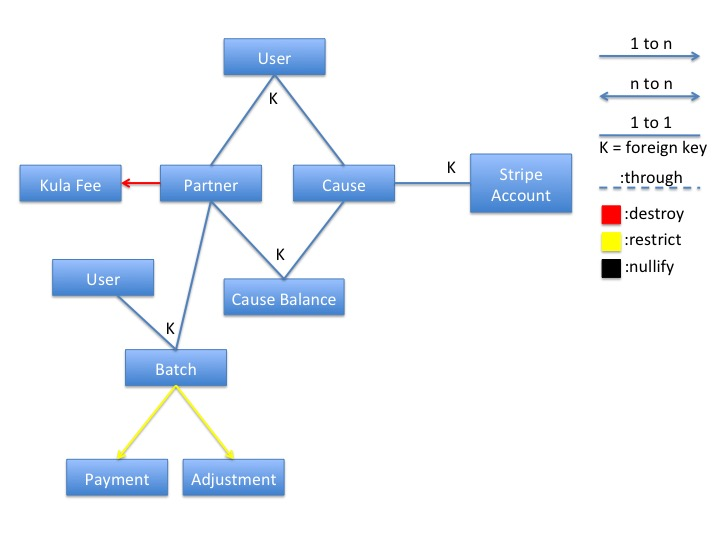
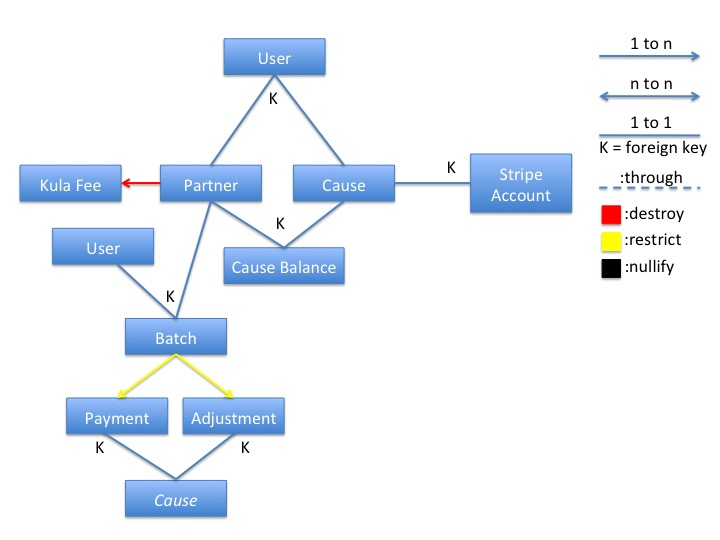
Payments and Partners

Changed region(s): [[0.0611, 0.3556, 0.4889, 0.9778]]

diff --git a/app/assets/javascripts/batch.js b/app/assets/javascripts/batch.js
@@ -1,0 +1,4 @@
+function remove_payment(link) {
+	$(link).prev("input[type=hidden]").val("true");
+	$(link).closest(".payment").hide();
+}

diff --git a/app/controllers/batches_controller.rb b/app/controllers/batches_controller.rb
@@ -1,0 +1,70 @@
+class BatchesController < ApplicationController
+  before_filter :authenticate_user!
+
+  # GET /batches/new
+  def new
+    @partner = Partner.find_by_partner_identifier(params[:partner])
+    @batch = @partner.batches.build(:user => current_user)
+  end
+  
+  # POST /batches
+  def create
+    @batch = Batch.new(batch_params)
+    
+    if @batch.save
+      # Add to CauseBalance
+      ActiveRecord::Base.transaction do
+        begin
+          @batch.payments.each do |payment|
+            balance = CauseBalance.where(:partner_id => @batch.partner, :cause_id => payment.cause, 
+                                         :year => payment.date.year, :balance_type => CauseBalance::PAYMENT).first_or_create  
+            case payment.date.month
+            when 1 
+              balance.update_attribute(:jan, balance.jan + payment.amount)
+            when 2 
+              balance.update_attribute(:feb, balance.feb + payment.amount)
+            when 3 
+              balance.update_attribute(:mar, balance.mar + payment.amount)
+            when 4 
+              balance.update_attribute(:apr, balance.apr + payment.amount)
+            when 5 
+              balance.update_attribute(:may, balance.may + payment.amount)
+            when 6 
+              balance.update_attribute(:jun, balance.jun + payment.amount)
+            when 7 
+              balance.update_attribute(:jul, balance.jul + payment.amount)
+            when 8 
+              balance.update_attribute(:aug, balance.aug + payment.amount)
+            when 9 
+              balance.update_attribute(:sep, balance.sep + payment.amount)
+            when 10 
+              balance.update_attribute(:oct, balance.oct + payment.amount)
+            when 11 
+              balance.update_attribute(:nov, balance.nov + payment.amount)
+            when 12 
+              balance.update_attribute(:dec, balance.dec + payment.amount)
+            end
+            
+            balance.update_attribute(:total, balance.jan + balance.feb + balance.mar + balance.apr + balance.may + balance.jun + 
+                                             balance.jul + balance.aug + balance.sep + balance.oct + balance.nov + balance.dec)          
+          end
+        rescue ActiveRecord::Rollback => ex
+          # All or nothing
+          @batch.destroy  
+        end
+      end
+      
+      redirect_to payments_path(:partner => @batch.partner_id), :notice => 'Batch was successfully created.'
+    else
+      render 'new'
+    end    
+  end
+  
+private
+  def batch_params
+    params.require(:batch).permit(:partner_id, :user_id, :name, :date, :description,
+                                  :payments_attributes => [:id, :status, :amount, :date, :confirmation, 
+                                                           :payment_method, :address, :comment, :cause_id,
+                                                           :_destroy])    
+  end
+end

diff --git a/app/helpers/batches_helper.rb b/app/helpers/batches_helper.rb
@@ -1,0 +1,17 @@
+module BatchesHelper
+  def add_payment(batch, form_builder)
+    # Precompute the html for a new content block by calling render on the same partial used for display
+    # The index is just "NEW_RECORD", since it doesn't exist yet; it will be replaced later
+    # Add a link with the text "Add Payment" and the id "add_payment"
+    # The inline Javascript takes the precomputed html block for a new license, replaces NEW_RECORD with a
+    #  dynamically computed unique key, and inserts it in the DOM right before the link
+    # Use #license elements as the unique key instead of "new Date().getTime()" so that I can predict it with RSpec
+    #  
+    form_builder.fields_for :payments, batch.payments.build, :child_index => 'NEW_RECORD' do |payment_form|
+      html = render(:partial => 'payment', :locals => { :f => payment_form })
+      onclick = "$('#{escape_javascript(html)}'.replace(/NEW_RECORD/g, $('.payment').length)).insertBefore('#add_payment'); return false;"
+      
+      content_tag(:a, 'Add Payment', :href => '#', :onclick => onclick, :id => 'add_payment')
+    end
+  end    
+end

diff --git a/app/models/cause_balance.rb b/app/models/cause_balance.rb
@@ -30,17 +30,19 @@ class CauseBalance < ActiveRecord::Base
   GROSS = 'Gross'
   DISCOUNT = 'Discount'
   NET = 'Net'
-  FEES = 'Fees'
-  ADJUSTMENTS = 'Adjustments'
+  FEE = 'Fee'
+  ADJUSTMENT = 'Adjustment'
   DONEE_AMOUNT = 'Donee Amount'
   
-  BALANCE_TYPES = [PAYABLE, PAYMENT, GROSS, DISCOUNT, NET, FEES, ADJUSTMENTS, DONEE_AMOUNT]
+  BALANCE_TYPES = [PAYABLE, PAYMENT, GROSS, DISCOUNT, NET, FEE, ADJUSTMENT, DONEE_AMOUNT]
   MAX_TYPE_LEN = 16
-  
+    
   belongs_to :partner
   belongs_to :cause
   
   validates :year, :numericality => { :only_integer => true, :greater_than => 2000 }
   validates_inclusion_of :balance_type, :in => BALANCE_TYPES
   validates :jan, :feb, :mar, :apr, :may, :jun, :jul, :aug, :sep, :oct, :nov, :dec, :total, :numericality => { :greater_than_or_equal_to => 0.0 }
+  
+  scope :payments, -> { where("balance_type = ?", PAYMENT).group(:year, :partner_id) }
 end

diff --git a/spec/models/payment_spec.rb b/spec/models/payment_spec.rb
@@ -13,16 +13,19 @@
 #  comment        :text
 #  created_at     :datetime
 #  updated_at     :datetime
+#  cause_id       :integer
 #
 
 describe Payment do
   let(:batch) { FactoryGirl.create(:batch) }
-  let(:payment) { FactoryGirl.create(:payment, :batch => batch) }
+  let(:cause) { FactoryGirl.create(:cause) }
+  let(:payment) { FactoryGirl.create(:payment, :batch => batch, :cause => cause) }
   
   subject { payment }
   
   it "should respond to everything" do
     expect(payment).to respond_to(:batch_id)
+    expect(payment).to respond_to(:cause_id)
     expect(payment).to respond_to(:status)
     expect(payment).to respond_to(:amount)
     expect(payment).to respond_to(:date)
@@ -33,6 +36,7 @@ describe Payment do
   end
   
   its(:batch) { should be == batch }
+  its(:cause) { should be == cause }
   
   it { should be_valid }
   

diff --git a/spec/models/adjustment_spec.rb b/spec/models/adjustment_spec.rb
@@ -9,22 +9,26 @@
 #  comment    :text
 #  created_at :datetime
 #  updated_at :datetime
+#  cause_id   :integer
 #
 
 describe Adjustment do
   let(:batch) { FactoryGirl.create(:batch) }
-  let(:adjustment) { FactoryGirl.create(:adjustment, :batch => batch) }
+  let(:cause) { FactoryGirl.create(:cause) }
+  let(:adjustment) { FactoryGirl.create(:adjustment, :batch => batch, :cause => cause) }
   
   subject { adjustment }
   
   it "should respond to everything" do
     expect(adjustment).to respond_to(:batch_id)
+    expect(adjustment).to respond_to(:cause_id)
     expect(adjustment).to respond_to(:amount)
     expect(adjustment).to respond_to(:date)
     expect(adjustment).to respond_to(:comment)
   end
   
   its(:batch) { should be == batch }
+  its(:cause) { should be == cause }
   
   it { should be_valid }
   

diff --git a/db/schema.rb b/db/schema.rb
@@ -11,7 +11,7 @@
 #
 # It's strongly recommended that you check this file into your version control system.
 
-ActiveRecord::Schema.define(version: 20150709052739) do
+ActiveRecord::Schema.define(version: 20150717030636) do
 
   create_table "adjustments", force: true do |t|
     t.integer  "batch_id"
@@ -20,6 +20,7 @@ ActiveRecord::Schema.define(version: 20150709052739) do
     t.text     "comment"
     t.datetime "created_at"
     t.datetime "updated_at"
+    t.integer  "cause_id"
   end
 
   create_table "batches", force: true do |t|
@@ -116,6 +117,7 @@ ActiveRecord::Schema.define(version: 20150709052739) do
     t.text     "comment"
     t.datetime "created_at"
     t.datetime "updated_at"
+    t.integer  "cause_id"
   end
 
   create_table "stripe_accounts", force: true do |t|

diff --git a/app/models/partner.rb b/app/models/partner.rb
@@ -18,6 +18,9 @@ class Partner < ActiveRecord::Base
   self.primary_key = 'partner_identifier'
   
   has_many :kula_fees, :dependent => :destroy
+  has_many :cause_balances, :dependent => :restrict_with_exception
+  has_many :batches, :dependent => :restrict_with_exception
+  has_many :payments, :through => :batches
   
   validates_presence_of :name, :display_name, :domain, :partner_identifier
   validates_uniqueness_of :partner_identifier

diff --git a/app/models/payment.rb b/app/models/payment.rb
@@ -13,6 +13,7 @@
 #  comment        :text
 #  created_at     :datetime
 #  updated_at     :datetime
+#  cause_id       :integer
 #
 
 class Payment < ActiveRecord::Base
@@ -23,6 +24,7 @@ class Payment < ActiveRecord::Base
   VALID_METHODS = ['ACH', 'Check']
   
   belongs_to :batch
+  belongs_to :cause
   
   validates_inclusion_of :status, :in => VALID_STATUSES
   validates :amount, :numericality => { :greater_than => 0 }

diff --git a/app/helpers/application_helper.rb b/app/helpers/application_helper.rb
@@ -2,4 +2,5 @@ module ApplicationHelper
   EMAIL_REGEX = /\A\w.*?@\w.*?\.\w+\z/
   INVALID_EMAILS = ["joe", "joe@", "gmail.com", "@gmail.com", "@Actually_Twitter", "joe.mama@gmail", "fish@.com", "fish@biz.", "test@com"]
   VALID_EMAILS = ["j@z.com", "jeff.bennett@pittsburghmoves.com", "fish_42@verizon.net", "a.b.c.d@e.f.g.h.biz"]
+  DATE_FORMAT = '%b %d, %Y'
 end

diff --git a/config/routes.rb b/config/routes.rb
@@ -7,6 +7,10 @@ Rails.application.routes.draw do
   # You can have the root of your site routed with "root"
   root :to => 'static_pages#home'
 
+  resources :payments, :only => [:index]
+  resources :batches, :only => [:new, :create]
+  resources :partners, :only => [:index]
+  
   # Static pages
   get "/site_admin" => "static_pages#admin_index"
 end

diff --git a/app/models/cause.rb b/app/models/cause.rb
@@ -44,6 +44,8 @@ class Cause < ActiveRecord::Base
   MAX_MEDIUM = 64
   MAX_LARGE = 128
   
+  has_many :cause_balances, :dependent => :restrict_with_exception
+
   validates_presence_of :name, :cause_type, :country
   validates_inclusion_of :has_ach_info, :in => [true, false]
   validates_inclusion_of :cause_type, :in => VALID_TYPES
